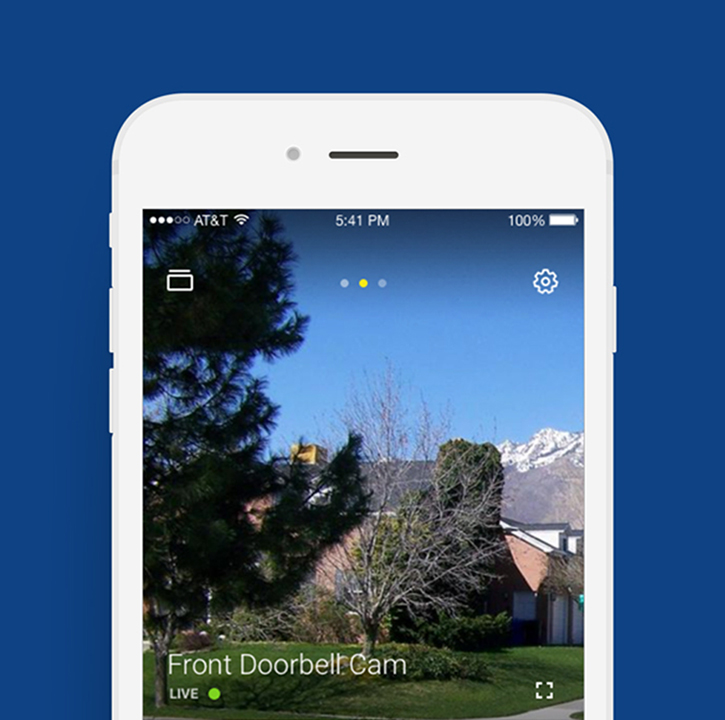
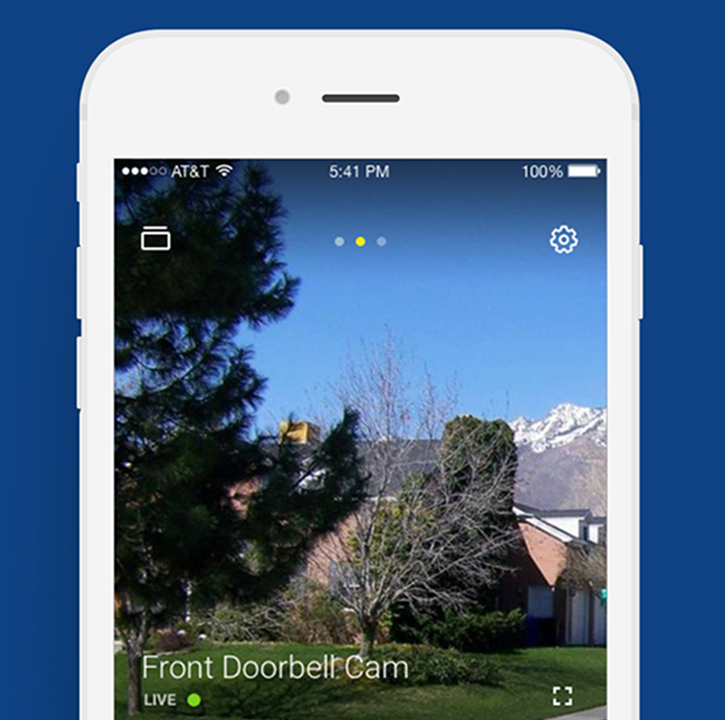
v35.4 — Added PAF to header, updated mobile img throughout adding SAF and others

diff --git a/webpage/index.html b/webpage/index.html
@@ -101,7 +101,6 @@
         </div> -->
         <div class="row">
           <div class="col-lg-9">
-            <!-- <h2 class="text-ribbon text-ribbon-primary text-white pb-4 op-5">Additional.</h2> -->
             <h1 class="block-title pb-2">
               <span class="text-ribbon text-ribbon-primary">
                 <span><a class="text-white" href="https://www.snackworks.ca/" target="_blank">Bringing people together over snacks.</a></span>
@@ -111,6 +110,29 @@
               <span class="text-ribbon text-ribbon-primary op-5">
                 <span>
                   A new product platform with <a class="text-white" href="https://www.mondelezinternational.com/" target="_blank">Mondelez</a>.
+                </span>
+              </span>
+            </h1>
+          </div>
+        </div>
+      </div>
+    </div>
+  </div>
+  <!-- NFL -->
+  <div class="block block-fill-height" style="background-image: url(img/header-nflpa-bench.jpg)">
+    <div class="block-xs-middle block-md-middle">
+      <div class="container">
+        <div class="row">
+          <div class="col-lg-9">
+            <h1 class="block-title pb-2">
+              <span class="text-ribbon text-ribbon-primary">
+                <span><a class="text-white" href="https://www.yourpaf.com" target="_blank">Changing lives after football.</a></span>
+              </span>
+            </h1>
+            <h1 class="block-title">
+              <span class="text-ribbon text-ribbon-primary op-5">
+                <span>
+                  A community experience built with the Professional Athletes Foundation.
                 </span>
               </span>
             </h1>
@@ -171,7 +193,7 @@
             <h1 class="block-title mt-5">
               <span class="text-ribbon text-ribbon-primary">
                 <span><a href="mailto:jeff@addl.co?subject=Hi from the internet" class="text-white text-emoji" target="_self" data-bs-toggle="tooltip" data-bs-placement="right" title="Hi...">&#128075;</a></span>
-              </span>
+              </span>Ó
             </h1> -->
           </div>
         </div>
@@ -187,7 +209,7 @@
             <p class="text-ribbon text-ribbon-primary text-black pb-3">Our mission is to help achieve yours.</p>
             <!-- <h3 class="display-6-subhead mb-5 text-pink">We help move beyond the imagination-traps of our own experience to uncover truly new possibilities.</h3> -->
             <!-- <h3 class="display-6 pb-3"><strong>We find clever ways to connect with people to uncover new possibilities.</strong></h3> -->
-            <h3 class="display-6"><a href="about" target="_self" class="team">Our senior team</a> of strategists, designers and technologists is purposely small, and we keep projects to a minimum so we can contribute daily as teammates inside mission-driven organizations to create brands, products, and results that matter.</h3>
+            <h3 class="display-6"><a href="about" target="_self" class="team">Our senior team</a> of strategists, designers and technologists is purposely small, so we can contribute daily as teammates inside mission-driven organizations. We've remixed brands, led the creation of new products and created products from the ground up.</h3>
             <!-- <h3 class="display-6">Our cultural perspectives continue to expand with a partner from Venezuela, and a roster of senior associates hailing from communities around the country, and abroad.</h3> -->
             <!-- <h3 class="display-6 mb-4"><a href="about/" target="_self" class="team">As a bilingual team</a>, we pride ourselves in becoming business partners with every client, .</h3> -->
             <!-- <h3 class="display-6 mb-4">From start-ups, and new ventures to large enterprise needs, we bring an entreprenuerial mindset, and hands-on design to project to make sure its meaningful, and done right.</h3> -->
@@ -254,11 +276,24 @@
           </div>
 
           <div class="row mb-3">
+            <!-- <div class="col-lg-12 mb-3 mb-md-5">
+              <div class="app-box-shadow">
+                <img src="img/saf-iphone-xs.jpg">
+              </div>
+            </div> -->
+
+            <div class="col-lg-12 mb-3 mb-md-5">
+              <div class="app-box-shadow">
+                <img src="img/saf-tank-back.png">
+              </div>
+            </div>
+
             <div class="col-lg-12 mb-3 mb-md-5">
               <div class="app-box-shadow">
                 <img src="img/paya-apple.jpg">
               </div>
             </div>
+
             <div class="col-lg-12 mb-3 mb-md-5">
               <div class="card card-bold card-good mb-0 app-box-shadow">
                 <a href="http://goodseeker.com" target="_blank"><img src="img/good-team.jpg"></a>
@@ -270,11 +305,7 @@
                 </div>
               </div>
             </div>
-            <!-- <div class="col-lg-12 mb-3 mb-md-5">
-              <div class="app-box-shadow">
-                <img src="img/paya-apple.jpg">
-              </div>
-            </div> -->
+
             <div class="col-lg-12 mb-3 mb-md-5">
               <div class="app-box-shadow">
                 <img src="img/att-dl-dash.jpg">
@@ -285,14 +316,19 @@
                 <img src="img/paya-apple.jpg">
               </div>
             </div> -->
+            <div class="col-lg-12 mb-2 mb-md-5">
+              <div class="app-box-shadow">
+                <img src="img/att-doorbell-cam.jpg">
+              </div>
+            </div>
 
             <div class="col-lg-12">
               <div class="app-box-shadow">
                 <img src="img/ss-dash.jpg">
               </div>
             </div>
-          </div>
 
+          </div>
         </div>
 
         <div class="col-lg-8 col-md-6">
@@ -309,7 +345,7 @@
 
           <div class="row mb-3 mb-md-5">
             <div class="col-lg-12">
-              <img src="img/saf-apps.jpg">
+              <img src="img/saf-iphone-apps.jpg">
            </div>
           </div>
 
@@ -318,11 +354,12 @@
               <img src="img/org-screen-bb.png">
            </div>
           </div>
-          <div class="row mb-3 mb-md-5">
+
+          <!-- <div class="row mb-3 mb-md-5">
             <div class="col-lg-12">
               <img src="img/org-screen-tecnicas.png">
            </div>
-          </div>
+          </div> -->
 
           <div class="row mb-3 mb-md-5">
             <div class="col-lg-12">
